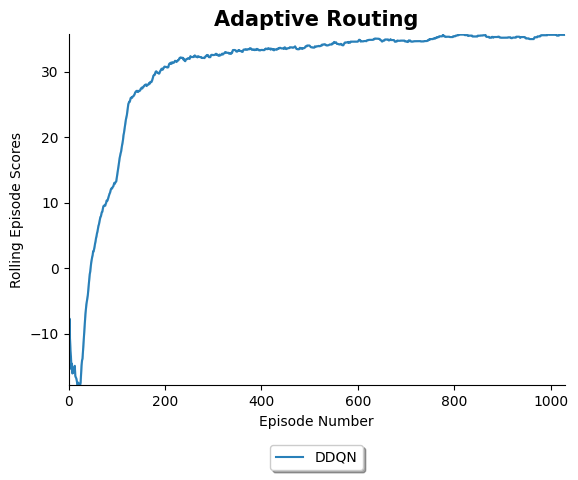
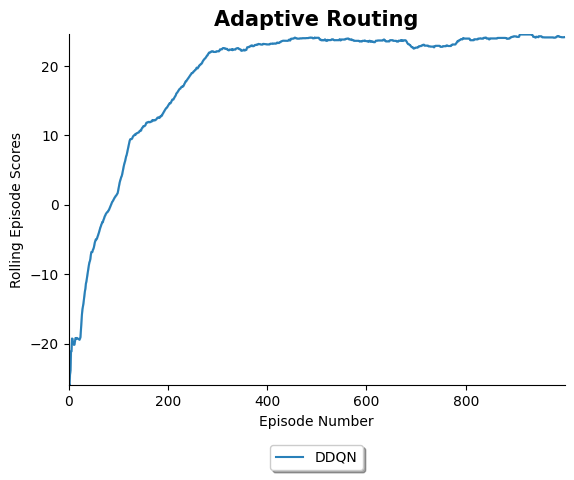
stable reward function, delayed reward

diff --git a/environments/Adaptive_Routing_Environment_D.py b/environments/Adaptive_Routing_Environment_D.py
@@ -15,13 +15,14 @@ from environments.Utils import Utils
 import torch
 import itertools
 import numpy
+import math
 # eng = cityflow.Engine("3x3/config.json", thread_num=1)
 # for i in range(1000):
 # 	eng.next_step()
 class Adaptive_Routing_Environment(gym.Env):
 	environment_name = "Adaptive Routing"
 
-	def __init__(self,dim,encode,Num_Flows,Max_Sim_Time,device,Log):
+	def __init__(self,dim,encode,Num_Flows,skip_routing,Max_Sim_Time,device,Log):
 		self.eng = cityflow.Engine("environments/3x3/config.json", thread_num=8)
 		self.vehicles={}
 		self.trans_vehicles=[]
@@ -49,6 +50,7 @@ class Adaptive_Routing_Environment(gym.Env):
 		self.reward_threshold = 0.0
 		self.trials = 100
 		self.Log=Log
+		self.skip_routing=skip_routing
 	# def step(self, desired_action):
 	# 	return self.s, self.reward, self.done, {}
 	# 	# must satisfy base agent conduct_action function line 200
@@ -118,6 +120,10 @@ class Adaptive_Routing_Environment(gym.Env):
 		
 		for vc in vehicles:
 
+			if self.utils.get_flow_id(vc) in self.skip_routing:
+				# breakpoint()
+				continue
+
 			if vc not in self.vehicles.keys():
 				if self.Log:
 					print("vehicle "+vc+" entered simulation")
@@ -128,6 +134,7 @@ class Adaptive_Routing_Environment(gym.Env):
 				"destination": self.get_destination(vc),
 				"memory_2": None,
 				"memory_1": None,
+				"enter time": self.eng.get_current_time(),
 				"last_trans_time": self.eng.get_current_time(),
 				"last_trans_dur": 0,
 				}
@@ -196,13 +203,21 @@ class Adaptive_Routing_Environment(gym.Env):
 			road=self.vehicles[vc]["memory_1"][0][0:3]
 			roadD=self.vehicles[vc]["memory_1"][0][3:6]
 			if road==roadD:
-				reward=100
+				
+				TT=self.eng.get_current_time()-self.vehicles[vc]["enter time"]
+				SPTT=self.utils.get_Shoretest_Path_Travel_Time(vc)
+				# print()
+				# print(vc)
+				# print(TT)
+
+				reward=1+math.exp(SPTT/TT)
+
 				if self.Log:
-					print("goal reached: +100")
+					print("goal reached: {:.2f}".format(reward))
 			else:
 				reward=-4
 				if self.Log:
-					print("dead-end: -10")
+					print("dead-end")
 			
 			return True,reward
 
@@ -222,9 +237,9 @@ class Adaptive_Routing_Environment(gym.Env):
 		# reward= (Dist_1_D-Dist_2_D)*10
 
 		if Dist_1_D>Dist_2_D:
-				reward=1
+				reward=0.5
 		else:
-				reward=-2
+				reward=-1
 		
 		if self.Log:
 				print("moving reward: "+ str(reward))

diff --git a/environments/Adaptive_Routing_Environment.py b/environments/Adaptive_Routing_Environment.py
@@ -15,6 +15,7 @@ from environments.Utils import Utils
 import torch
 import itertools
 import numpy
+import math
 # eng = cityflow.Engine("3x3/config.json", thread_num=1)
 # for i in range(1000):
 # 	eng.next_step()
@@ -204,20 +205,13 @@ class Adaptive_Routing_Environment(gym.Env):
 			if road==roadD:
 				
 				TT=self.eng.get_current_time()-self.vehicles[vc]["enter time"]
+				SPTT=self.utils.get_Shoretest_Path_Travel_Time(vc)
 				# print()
 				# print(vc)
 				# print(TT)
-				reward=4
-				reward=reward+reward*100/TT
-				# flow=vc.split("_")[1]
-				# Max_Speed=16 if (flow=="0") else 5
-				# CONST=30
-				# late_punish=TT*Max_Speed/CONST
-				# # print(vc)
-				# # print(late_punish)
-				# reward=reward-late_punish
-				# reward=100 if reward<100 else reward
-				# breakpoint()
+
+				reward=1+math.exp(SPTT/TT)
+
 				if self.Log:
 					print("goal reached: {:.2f}".format(reward))
 			else:
@@ -243,9 +237,9 @@ class Adaptive_Routing_Environment(gym.Env):
 		# reward= (Dist_1_D-Dist_2_D)*10
 
 		if Dist_1_D>Dist_2_D:
-				reward=1
+				reward=0.5
 		else:
-				reward=-2
+				reward=-1
 		
 		if self.Log:
 				print("moving reward: "+ str(reward))

diff --git a/results/Adaptive_Routing.py b/results/Adaptive_Routing.py
@@ -33,13 +33,13 @@ device = torch.device("cuda" if torch.cuda.is_available() else "cpu") #device is
 config = Config()
 config.seed = 1
 
-config.environment = Adaptive_Routing_Environment(dim=3,encode="one_hot",Num_Flows=2,skip_routing=[1],Max_Sim_Time=600,device=device,Log=False)
+config.environment = Adaptive_Routing_Environment(dim=3,encode="one_hot",Num_Flows=2,skip_routing=[1],Max_Sim_Time=500,device=device,Log=False)
 # breakpoint()
 # num_possible_states =config.environment.utils.get_state_diminsion()
 # embedding_dimensions = [[num_possible_states, 20]]
 # print("Num possible states ", num_possible_states)
 
-config.num_episodes_to_run = 2000
+config.num_episodes_to_run = 1000
 config.file_to_save_data_results = "Data_and_Graphs/Adaptive_Routing.pkl"
 config.file_to_save_results_graph = "Data_and_Graphs/Adaptive_Routing.png"
 config.show_solution_score = False

diff --git a/environments/Utils.py b/environments/Utils.py
@@ -112,8 +112,8 @@ class Utils(object):
 			
 	def reshape(self,state,vehicle_id):
 		if self.Num_Flows!=0:
-			one_hot_vid=[0]*self.Num_Flows
-			one_hot_vid[self.get_flow_id(vehicle_id)]=1
+			one_hot_vid=[-100]*self.Num_Flows
+			one_hot_vid[self.get_flow_id(vehicle_id)]=100
 
 		road1=self.res_road(state[:3])
 		road2=self.res_road(state[3:])
@@ -134,3 +134,13 @@ class Utils(object):
 	def get_flow_id(self,flow):
 		vid=list(map(int,flow.split('_')[1:3]))
 		return vid[0]
+
+	def get_Shoretest_Path_Travel_Time(self,flow):
+		flow_id=self.get_flow_id(flow)
+		if flow_id==0:
+			return 165
+		if flow_id==1:
+			return 500
+
+		return None
+		
